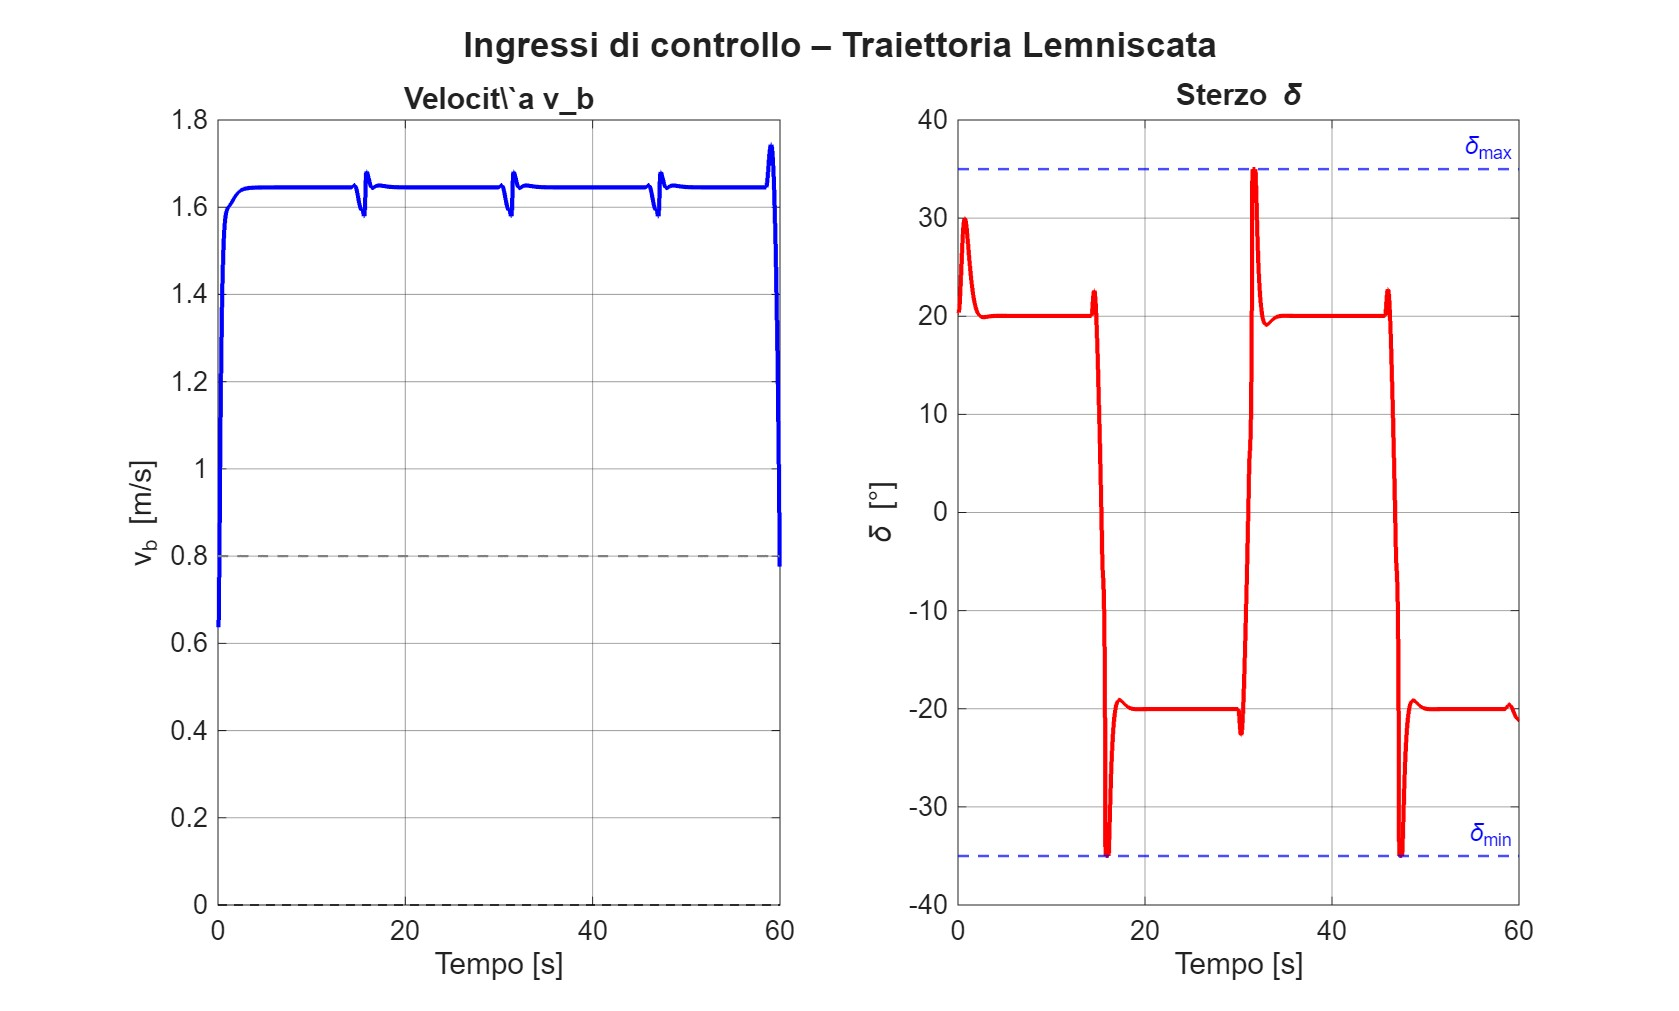
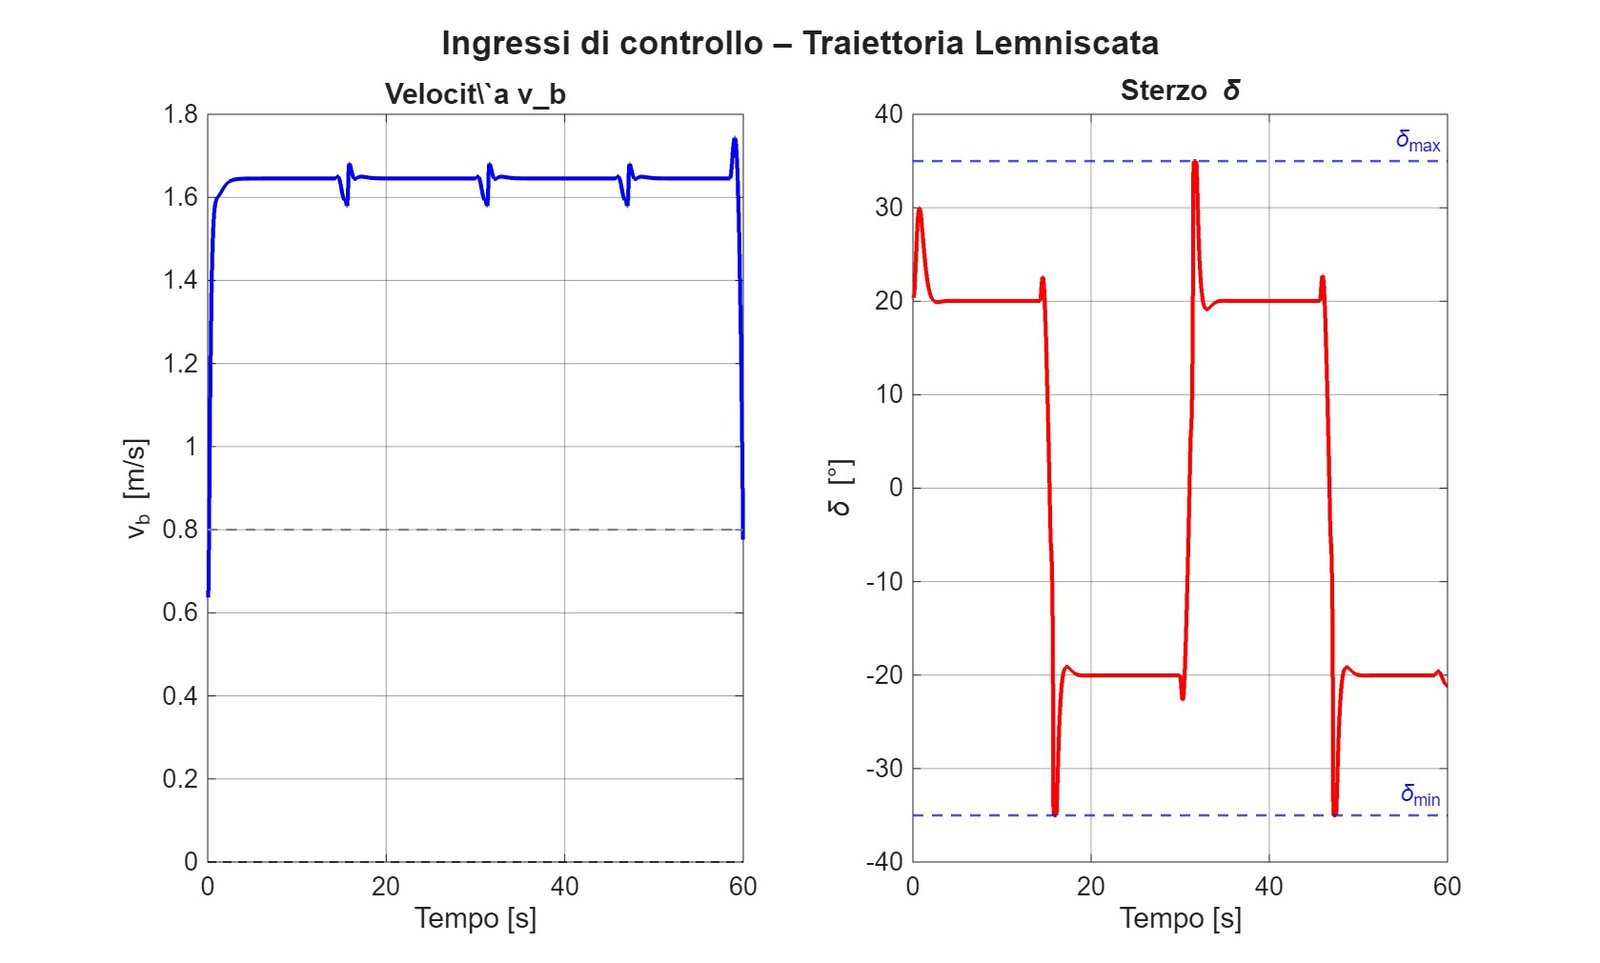
Improve README with presentation figures and animations

Changed region(s): [[0.875, 0.81, 0.9062, 0.8411], [0.875, 0.1246, 0.9062, 0.1558], [0.4375, 0.1558, 0.4688, 0.1869]]

diff --git a/README.md b/README.md
@@ -1,60 +1,143 @@
-# Robot Control: 6-DoF Manipulator and Bicycle-Trailer Mobile Robot
+# Robot Control: ABB IRB120 Manipulator and Bicycle–Trailer Mobile Robot
 
 Course project – *Robotics*, M.Sc. Robotics and Automation Engineering, University of Pisa (2026)
-Authors: **Andrea Sodini**, Giulio Sergi
+Authors: **Andrea Sodini**, Giulio Sergi · MATLAB / Simulink
 
-Model-based and adaptive control of an industrial manipulator, nonlinear analysis and control of a bicycle with trailer, and a nonlinear MPC extension. Everything is implemented in MATLAB/Simulink.
+| Part | System | Topic | Folder |
+|---|---|---|---|
+| [1](#1-abb-irb120-model-based-and-adaptive-trajectory-tracking) | 6-DoF ABB IRB120 | Computed torque, backstepping, adaptive control under model uncertainty | `01_manipulator_abb_irb120` |
+| [2](#2-bicycletrailer-controllability-and-observability) | Bicycle with trailer | Nonlinear controllability and observability | `02_trailer_controllability` |
+| [3](#3-bicycletrailer-feedback-linearization--lqr) | Bicycle with trailer | Feedback linearization + LQR, zero dynamics | `03_trailer_feedback_linearization` |
+| [4](#4-bicycletrailer-nonlinear-mpc) | Bicycle with trailer | Nonlinear MPC with constraints | `04_trailer_nmpc` |
 
-![Trailer trajectory tracking](figures/fl_trailer_tracking.gif)
+---
 
-## 1. ABB IRB120 manipulator: trajectory tracking under model uncertainty
+## 1. ABB IRB120: model-based and adaptive trajectory tracking
 
-`01_manipulator_abb_irb120/`
+![Four controllers on the circular trajectory](figures/manipulator_controllers.gif)
 
-- Robot model from the Robotics System Toolbox (`abbIrb120`). A "real" robot is generated by perturbing link geometry, masses and inertias to emulate model uncertainty.
-- **Inverse kinematics** via the Jacobian (q̇ = J⁻¹ẋ, q̈ = J⁻¹(ẍ − J̇q̇)) to track a circular end-effector path.
-- Controllers compared on circular, figure-eight and multisine references:
-  - **Computed torque**, with critically damped gain tuning;
-  - **Backstepping** in task space;
-  - **Adaptive computed torque (Li–Slotine)** with online estimation of the dynamic parameters.
-- Main finding: on the uncertain model, plain computed torque leaves oscillating, non-zero-mean errors, while the adaptive law drives the tracking error to zero. Regressor conditioning shows why: the figure-eight path violates **persistent excitation**, so the parameter estimates diverge. A multisine reference restores convergence.
+*Circular end-effector trajectory. Top: computed torque and backstepping on the ideal model. Bottom: computed torque and adaptive computed torque on the "real" robot with model uncertainty (ideal path in grey).*
 
-| | |
-|---|---|
-| ![Task space figure 8](figures/manip_task_figure8.jpg) | ![Regressor conditioning](figures/manip_regressor_cond_figure8.jpg) |
-| Task-space tracking, figure-eight path | Regressor conditioning (persistent-excitation analysis) |
+**Setup**
+- 6-DoF ABB IRB120 from the Robotics System Toolbox, with Denavit–Hartenberg model.
+- A **"real" robot** is created by randomly perturbing link geometry, masses and inertias, so that the controller's model no longer matches the plant.
+- Task-space reference: a circle (centre [0.35, 0, 0.10] m, R = 0.15 m, ω = 2 rad/s), plus figure-eight and multisine paths.
+- Desired joint trajectories from **differential inverse kinematics**: q̇ = J⁻¹ẋ, q̈ = J⁻¹(ẍ − J̇q̇).
 
-## 2. Bicycle with trailer: controllability and observability
+**Controllers**
+1. **Computed torque:** τ = M̂(q)[q̈_d + K_d ė + K_p e] + Ĉ(q,q̇)q̇ + ĝ(q), with critically damped gains (K_d = 2ω_n, K_p = ω_n²).
+2. **Backstepping** in task space, with a Lyapunov-based design.
+3. **Adaptive computed torque (Li–Slotine):** the dynamic parameters are estimated online through the robot's linear-in-parameters regressor Y(q, q̇, q̇_r, q̈_r).
 
-`02_trailer_controllability/`
-
-Nonlinear kinematic model analysed with differential-geometric tools: **Lie brackets**, the involutive closure of the accessibility distribution and the observability codistribution. The rank tests (rank = n = 7) confirm small-time local accessibility and controllability, and local observability.
-
-## 3. Bicycle with trailer: feedback linearization + LQR
-
-`03_trailer_feedback_linearization/`
-
-- Choice of a virtual output and relative degree; input–output **feedback linearization**; analysis of the **zero dynamics**.
-- Outer **LQR** loop on the linearized double-integrator dynamics (Simulink model).
-- A **PID mediator** on the zero dynamics fixes the geometric-constraint problem: the vehicle approaches in forward instead of reverse gear and reaches the ~0.5 cm steady-state error in about 11 s, compared with ~400 s without it (initial error ~8.2 m, circular reference R = 3 m).
-
-## 4. Nonlinear MPC for the bicycle with trailer
-
-`04_trailer_nmpc/`
-
-- Centralized **NMPC**, inspired by Kayacan et al. (2015), with cost J = Σ (eᵀQe + uᵀRu + ΔuᵀR_Δu Δu).
-- Explicit constraints: speed −1 ≤ v ≤ 3 m/s, steering |δ| ≤ 35°, **anti-jackknife** |φ| ≤ 60°.
-- Circular and figure-eight references; trade-off between prediction horizon (N = 30 vs 45) and computation time; robustness under tightened constraints.
+**Results**
 
 | | |
 |---|---|
-| ![NMPC circle](figures/nmpc_circle.gif) | ![NMPC error](figures/nmpc_error_figure8.jpg) |
-| NMPC, circular path | Tracking error, figure-eight path |
+| ![CT ideal](figures/manip_ct_ideal.jpg) | ![CT uncertain](figures/manip_ct_uncertain.jpg) |
+| **Computed torque, ideal model:** exact cancellation of the nonlinearities gives near-perfect tracking. | **Computed torque with model uncertainty:** oscillating steady-state errors with non-zero mean. |
+| ![Adaptive circle](figures/manip_adaptive_circle.jpg) | ![Backstepping](figures/manip_backstepping_ideal.jpg) |
+| **Adaptive CT with uncertainty, circle:** the errors are compensated and converge to zero. | **Backstepping, ideal model:** good tracking with a small residual error (~0.01 rad). |
+
+**Why the trajectory matters: persistent excitation**
+
+| | |
+|---|---|
+| ![Figure-eight tracking](figures/manip_adaptive_figure8.jpg) | ![Regressor figure-eight](figures/manip_regressor_sv_figure8.jpg) |
+| **Figure-eight path:** the adaptive controller loses tracking. | **Regressor singular values:** the path is not persistently exciting, so the Gramian becomes singular and the estimates diverge. |
+| ![Multisine tracking](figures/manip_adaptive_multisine.jpg) | ![Regressor multisine](figures/manip_regressor_sv_multisine.jpg) |
+| **Multisine path:** stable tracking. | **Regressor singular values:** well conditioned, so the parameter estimates converge again. |
+
+<details>
+<summary><b>More figures: robot model, inverse kinematics, parameter estimates</b></summary>
+
+| | |
+|---|---|
+| ![DH model](figures/manip_model_dh.png) | ![Inverse kinematics](figures/manip_inverse_kinematics.jpg) |
+| Frames and Denavit–Hartenberg parameters of the IRB120 | Differential inverse kinematics: desired vs obtained end-effector path |
+| ![Parameter estimates](figures/manip_param_estimates_circle.jpg) | ![Regressor circle](figures/manip_regressor_sv_circle.jpg) |
+| Estimated dynamic parameters per joint (circle) | Regressor singular values, circle path |
+
+</details>
+
+---
+
+## 2. Bicycle–trailer: controllability and observability
+
+<img src="figures/trailer_model.png" width="320" align="right">
+
+Kinematic model with 7 states; the inputs are the longitudinal jerk and the steering rate, and the output is the trailer position. The analysis uses differential-geometric tools: **Lie brackets**, the involutive closure of the accessibility distribution, and the **observability codistribution**.
+
+- rank Δ* = 7 = n → small-time local accessibility (STLA), hence also weak local accessibility (WLA).
+- F(x₀) ≠ 0, F ∉ span{G}, dim Δ_L = 7 → small-time local controllability (STLC).
+- rank O* = 7 = n → small-time local observability (STLO).
+
+<br clear="right">
+
+---
+
+## 3. Bicycle–trailer: feedback linearization + LQR
+
+![Feedback linearization with and without the PID mediator](figures/trailer_feedback_linearization.gif)
+
+*Tracking a circle (R = 3 m, ω = 0.25 rad/s) from an initial error of about 8.2 m (animation at 2× speed).*
+
+**Method**
+- Output on a virtual point ahead of the trailer axle; relative degree 2; input–output **feedback linearization** with the decoupling matrix.
+- Outer **LQR** loop on the resulting double integrator, implemented in Simulink.
+- **Zero-dynamics analysis:** with the original law the internal dynamics are only weakly stable, and the vehicle approaches in **reverse gear**. A **PID mediator** on the hitch angle fixes this geometric-constraint problem.
+
+**Results**
+
+| | |
+|---|---|
+| ![Error without PID](figures/fl_error_no_pid.jpg) | ![Error with PID](figures/fl_error_pid.jpg) |
+| **FL + LQR:** reaches ~0.5 cm, but the oscillations take about 400 s to decay. | **FL + LQR + PID:** reaches ~0.5 cm in about 11 s without oscillations, approaching in forward gear. |
+
+---
+
+## 4. Bicycle–trailer: nonlinear MPC
+
+![NMPC tracking](figures/trailer_nmpc.gif)
+
+*Centralized NMPC inspired by Kayacan et al. (2015) (animation at 3× speed).*
+
+**Formulation**
+- Exact nonlinear kinematics propagated with RK4 (dt = 0.05 s); optimization with `fmincon` (SQP).
+- Cost: J = Σ (eᵀQe + uᵀRu + Δuᵀ R_Δu Δu); prediction horizon N = 30 or 45, control horizon N_c = 8.
+- Hard constraints: −1 ≤ v ≤ 3 m/s, |δ| ≤ 35°, **anti-jackknife** |φ| ≤ 60°.
+
+**Results**
+
+| Scenario | Steady-state error | Settling time | Computation time |
+|---|---|---|---|
+| Circle, N = 30 | 6 mm | 23 s | 82 s |
+| Circle, N = 45 | 6 mm | 14 s | 118 s |
+| Figure-eight, N = 30 | 2.5 cm | 4 s | 100 s |
+| Figure-eight, tightened constraints (\|δ\| ≤ 20°, \|φ\| ≤ 45°) | peaks up to 62 cm | – | 65 s |
+
+| | |
+|---|---|
+| ![NMPC error figure-eight](figures/nmpc_error_figure8.jpg) | ![NMPC error tight](figures/nmpc_error_figure8_tight.jpg) |
+| **Figure-eight:** fast convergence and a small steady-state error. | **Tightened constraints:** the controller stays stable, but tracking degrades. |
+
+A longer horizon improves maneuver planning and settling time at a higher computational cost.
+
+<details>
+<summary><b>More figures</b></summary>
+
+| | |
+|---|---|
+| ![NMPC error circle](figures/nmpc_error_circle_n45.jpg) | ![NMPC inputs](figures/nmpc_inputs_figure8.jpg) |
+| Tracking error, circle, N = 45 | Control inputs on the figure-eight path, within the constraints |
+
+</details>
+
+---
 
 ## How to run
 
-MATLAB R2024a or later with Simulink, Robotics System Toolbox, Control System Toolbox and Optimization Toolbox. Open a folder and run `main.m` (`main_MPC.m` for the NMPC part).
+MATLAB R2024a or later with Simulink, Robotics System Toolbox, Control System Toolbox and Optimization Toolbox. In each folder, run `main.m` (`main_MPC.m` for part 4).
 
 ## Tech stack
 
-`MATLAB` · `Simulink` · `Robotics System Toolbox` · `Nonlinear control` · `Adaptive control` · `MPC`
+`MATLAB` · `Simulink` · `Robotics System Toolbox` · `Computed torque` · `Adaptive control` · `Backstepping` · `Feedback linearization` · `LQR` · `Nonlinear MPC`
